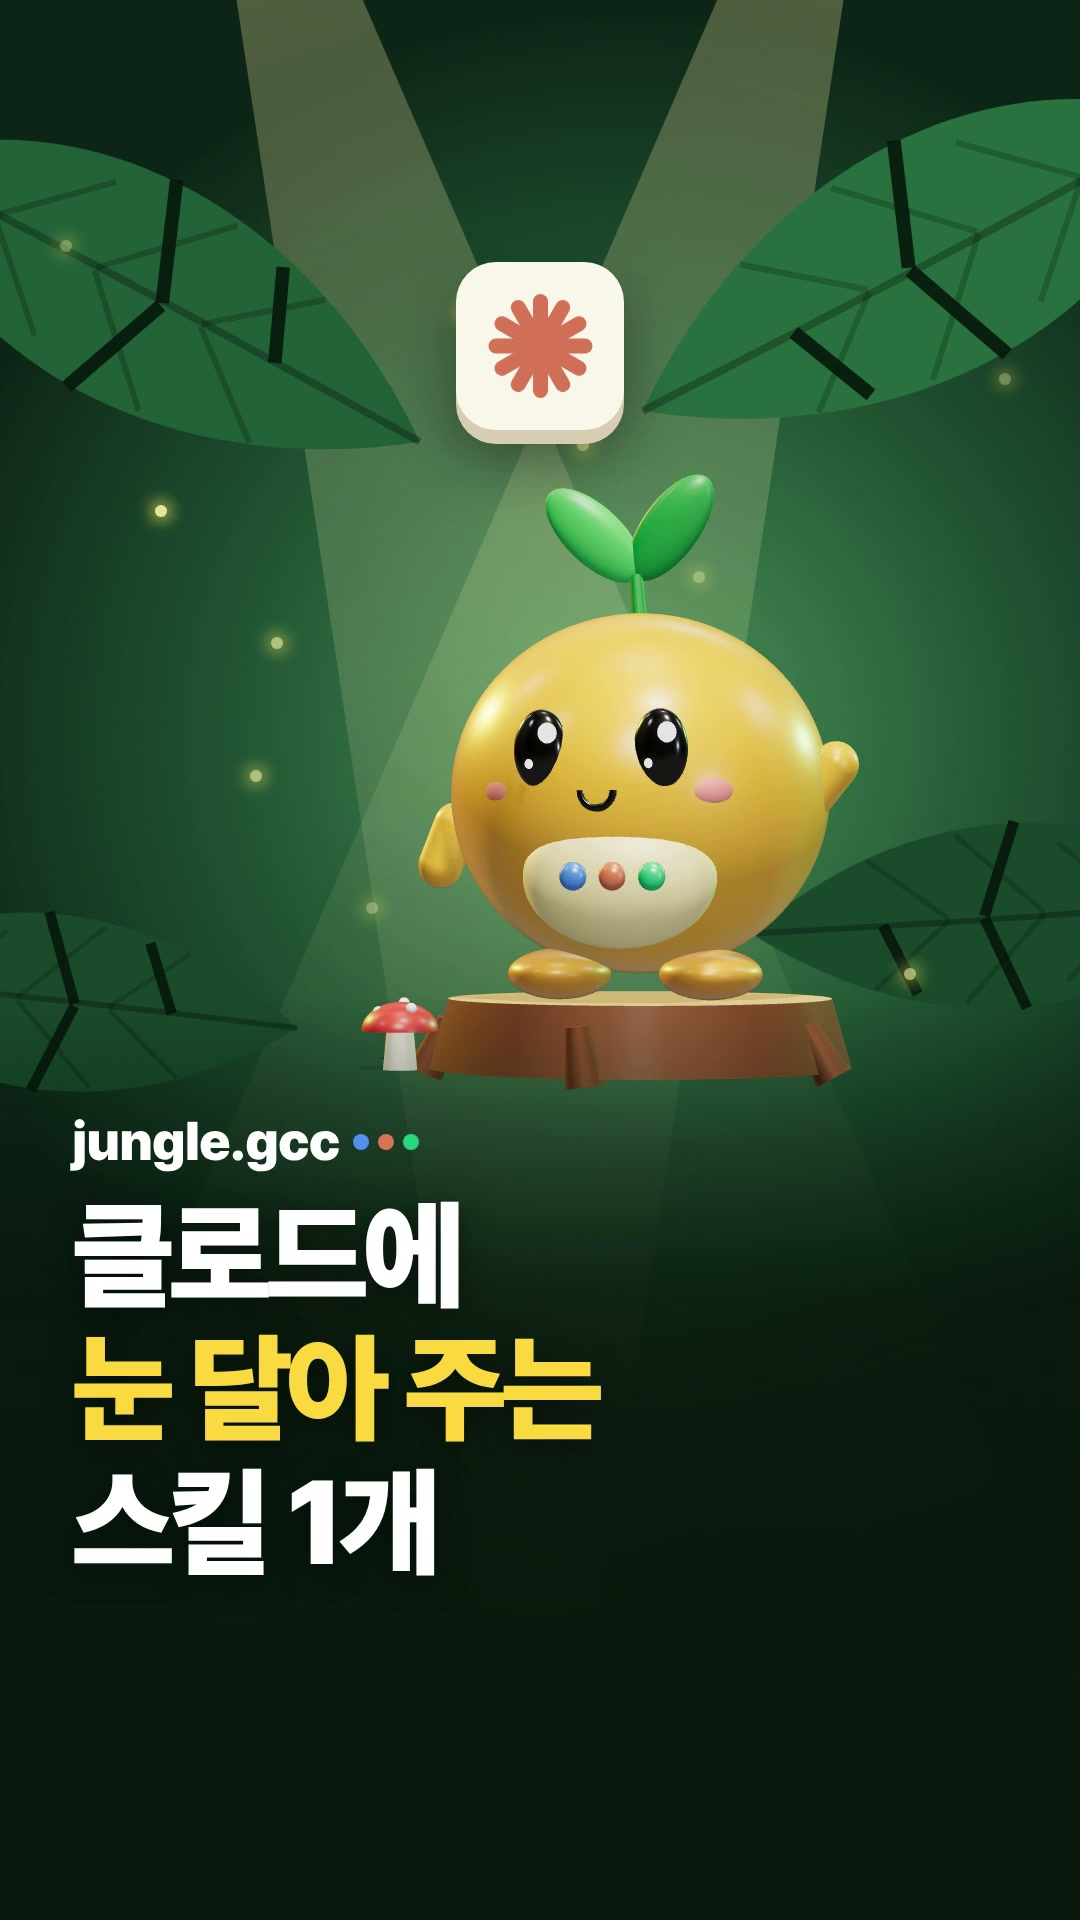
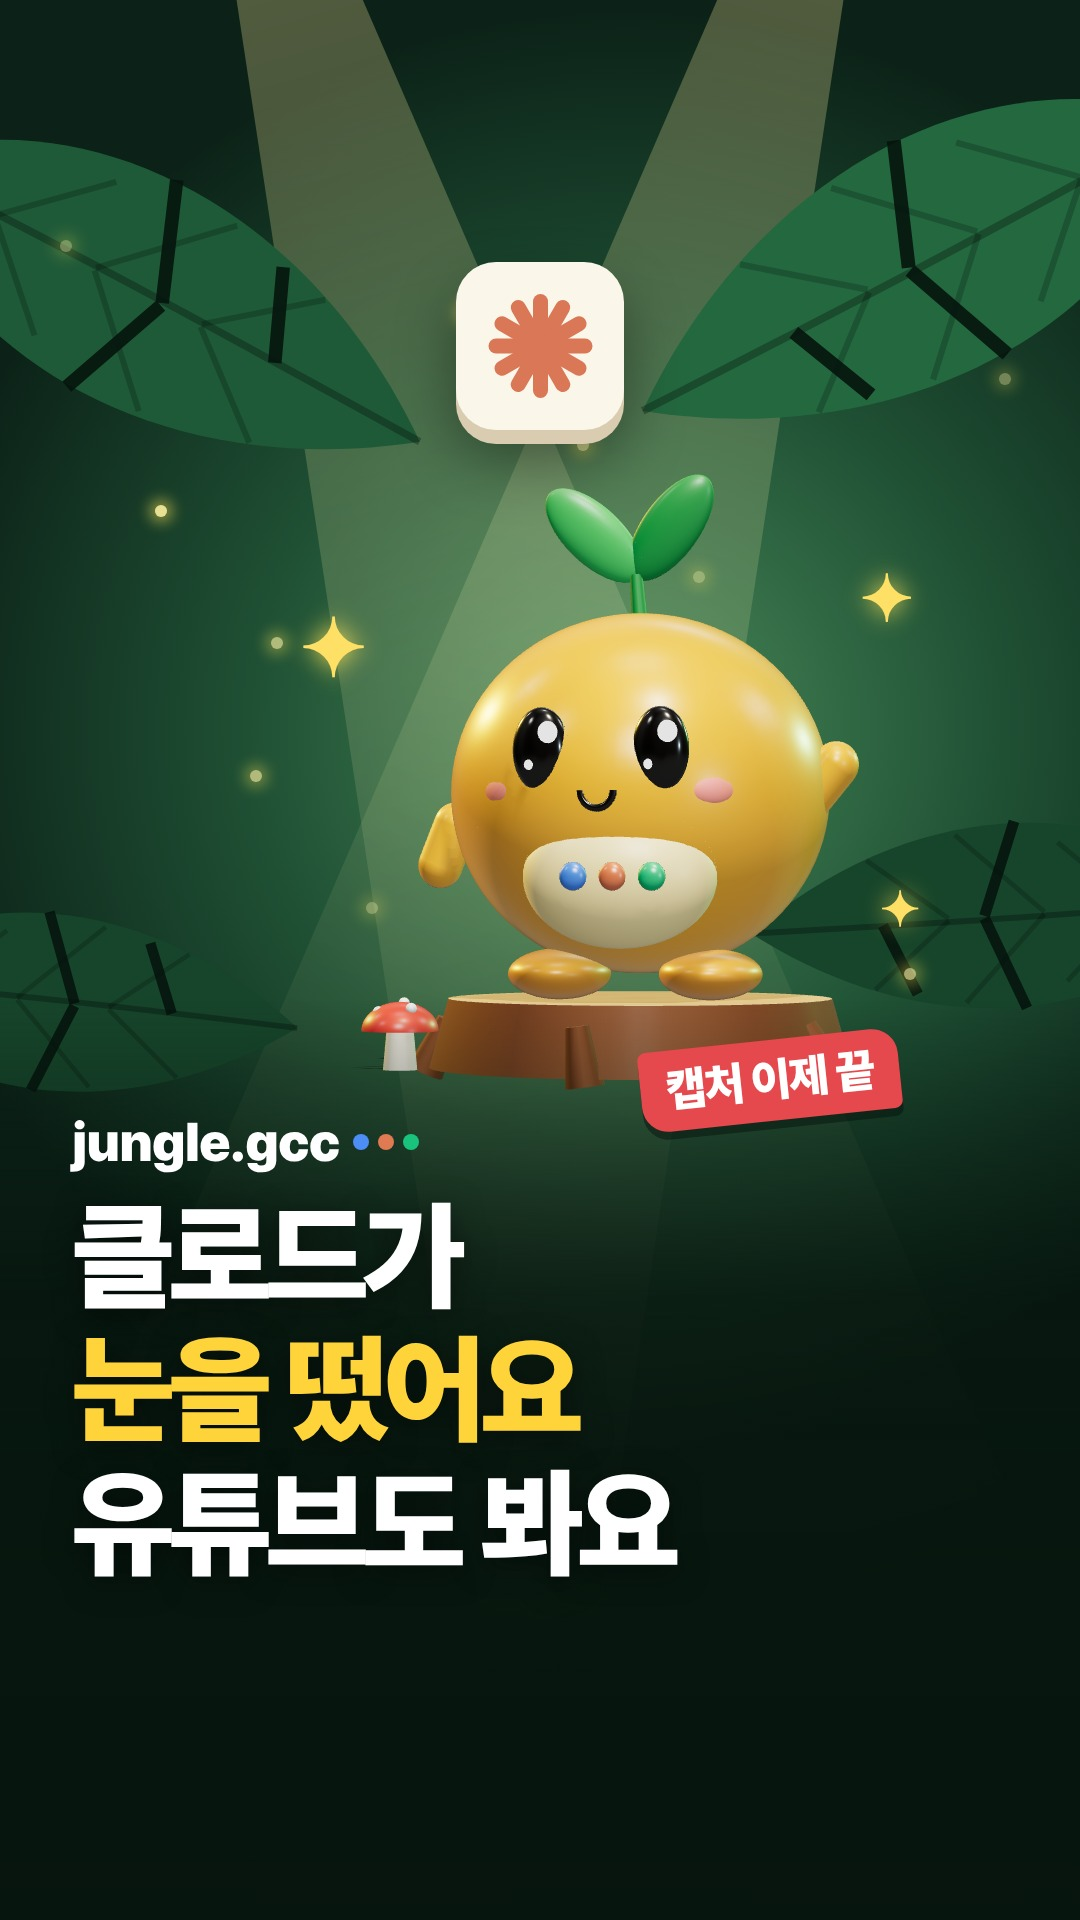
ai: claude-watch cover — punchier title [skip ci]
Claude-Session: https://claude.ai/code/session_01YRvW7WB3ZR124kZQnBwghn

diff --git a/ai/reels/2026-11-15-claude-watch/cover.html b/ai/reels/2026-11-15-claude-watch/cover.html
@@ -24,6 +24,8 @@
       #lab .dots { display: flex; gap: 9px; } #lab .dots i { width: 16px; height: 16px; border-radius: 50%; display: block; }
       #title { position: absolute; left: 72px; right: 40px; top: 1190px; z-index: 8; font-size: 118px; line-height: 1.13; font-weight: 900; letter-spacing: -5px; text-shadow: 0 6px 30px rgba(0, 0, 0, .5); }
       #title em { font-style: normal; color: #ffd43b; }
+      #stk { position: absolute; left: 640px; top: 1040px; z-index: 9; padding: 12px 26px 14px; border-radius: 8px 26px 8px 26px; background: #e5484d; color: #fff; font-size: 46px; font-weight: 900; letter-spacing: -1.5px; transform: rotate(-6deg); box-shadow: 0 8px 0 rgba(6, 20, 13, .5); }
+      .spk { position: absolute; z-index: 7; color: #ffe066; font-weight: 900; text-shadow: 0 0 24px rgba(255, 228, 90, .95); }
     </style>
   </head>
   <body>
@@ -36,7 +38,8 @@
       <div id="shade"></div>
       <div id="tile"></div>
       <div id="lab">jungle.gcc <span class="dots"><i style="background:#4c8df6"></i><i style="background:#e07a52"></i><i style="background:#19c37d"></i></span></div>
-      <div id="title">클로드에<br /><em>눈 달아 주는</em><br />스킬 1개</div>
+      <div id="stk">캡처 이제 끝</div><div class="spk" style="left:300px;top:600px;font-size:80px">✦</div><div class="spk" style="left:860px;top:560px;font-size:64px">✦</div><div class="spk" style="left:880px;top:880px;font-size:48px">✦</div>
+      <div id="title">클로드가<br /><em>눈을 떴어요</em><br />유튜브도 봐요</div>
     </div>
     <script>
       const tile = document.getElementById("tile"); for (let k = 0; k < 12; k++) { const i = document.createElement("i"); i.style.transform = `rotate(${k * 30}deg)`; tile.appendChild(i); }
@@ -52,7 +55,7 @@
       const m = createMascot(document.getElementById("three"));
       const PX = 398, TOP = 1.7, BOT = 1.45, top = 470, bot = 1075, cx = 640;
       const yt = 0.1 + (960 - top) / PX, yb = 0.1 + (960 - bot) / PX, s = (yt - yb) / (TOP + BOT);
-      const st = { x: (cx - 540) / PX, y: yt - TOP * s, s, ry: -0.2, look: -0.25, wave: 1, talk: 0, blink: 0, wide: 0.7, cube: 0 };
+      const st = { x: (cx - 540) / PX, y: yt - TOP * s, s, ry: -0.2, look: -0.25, wave: 1, talk: 0, blink: 0, wide: 1, cube: 0 };
       const render = () => m.renderAt(0.35, st);
       window.addEventListener("hf-seek", render); window.__renderMascot = render; render();
     </script>
